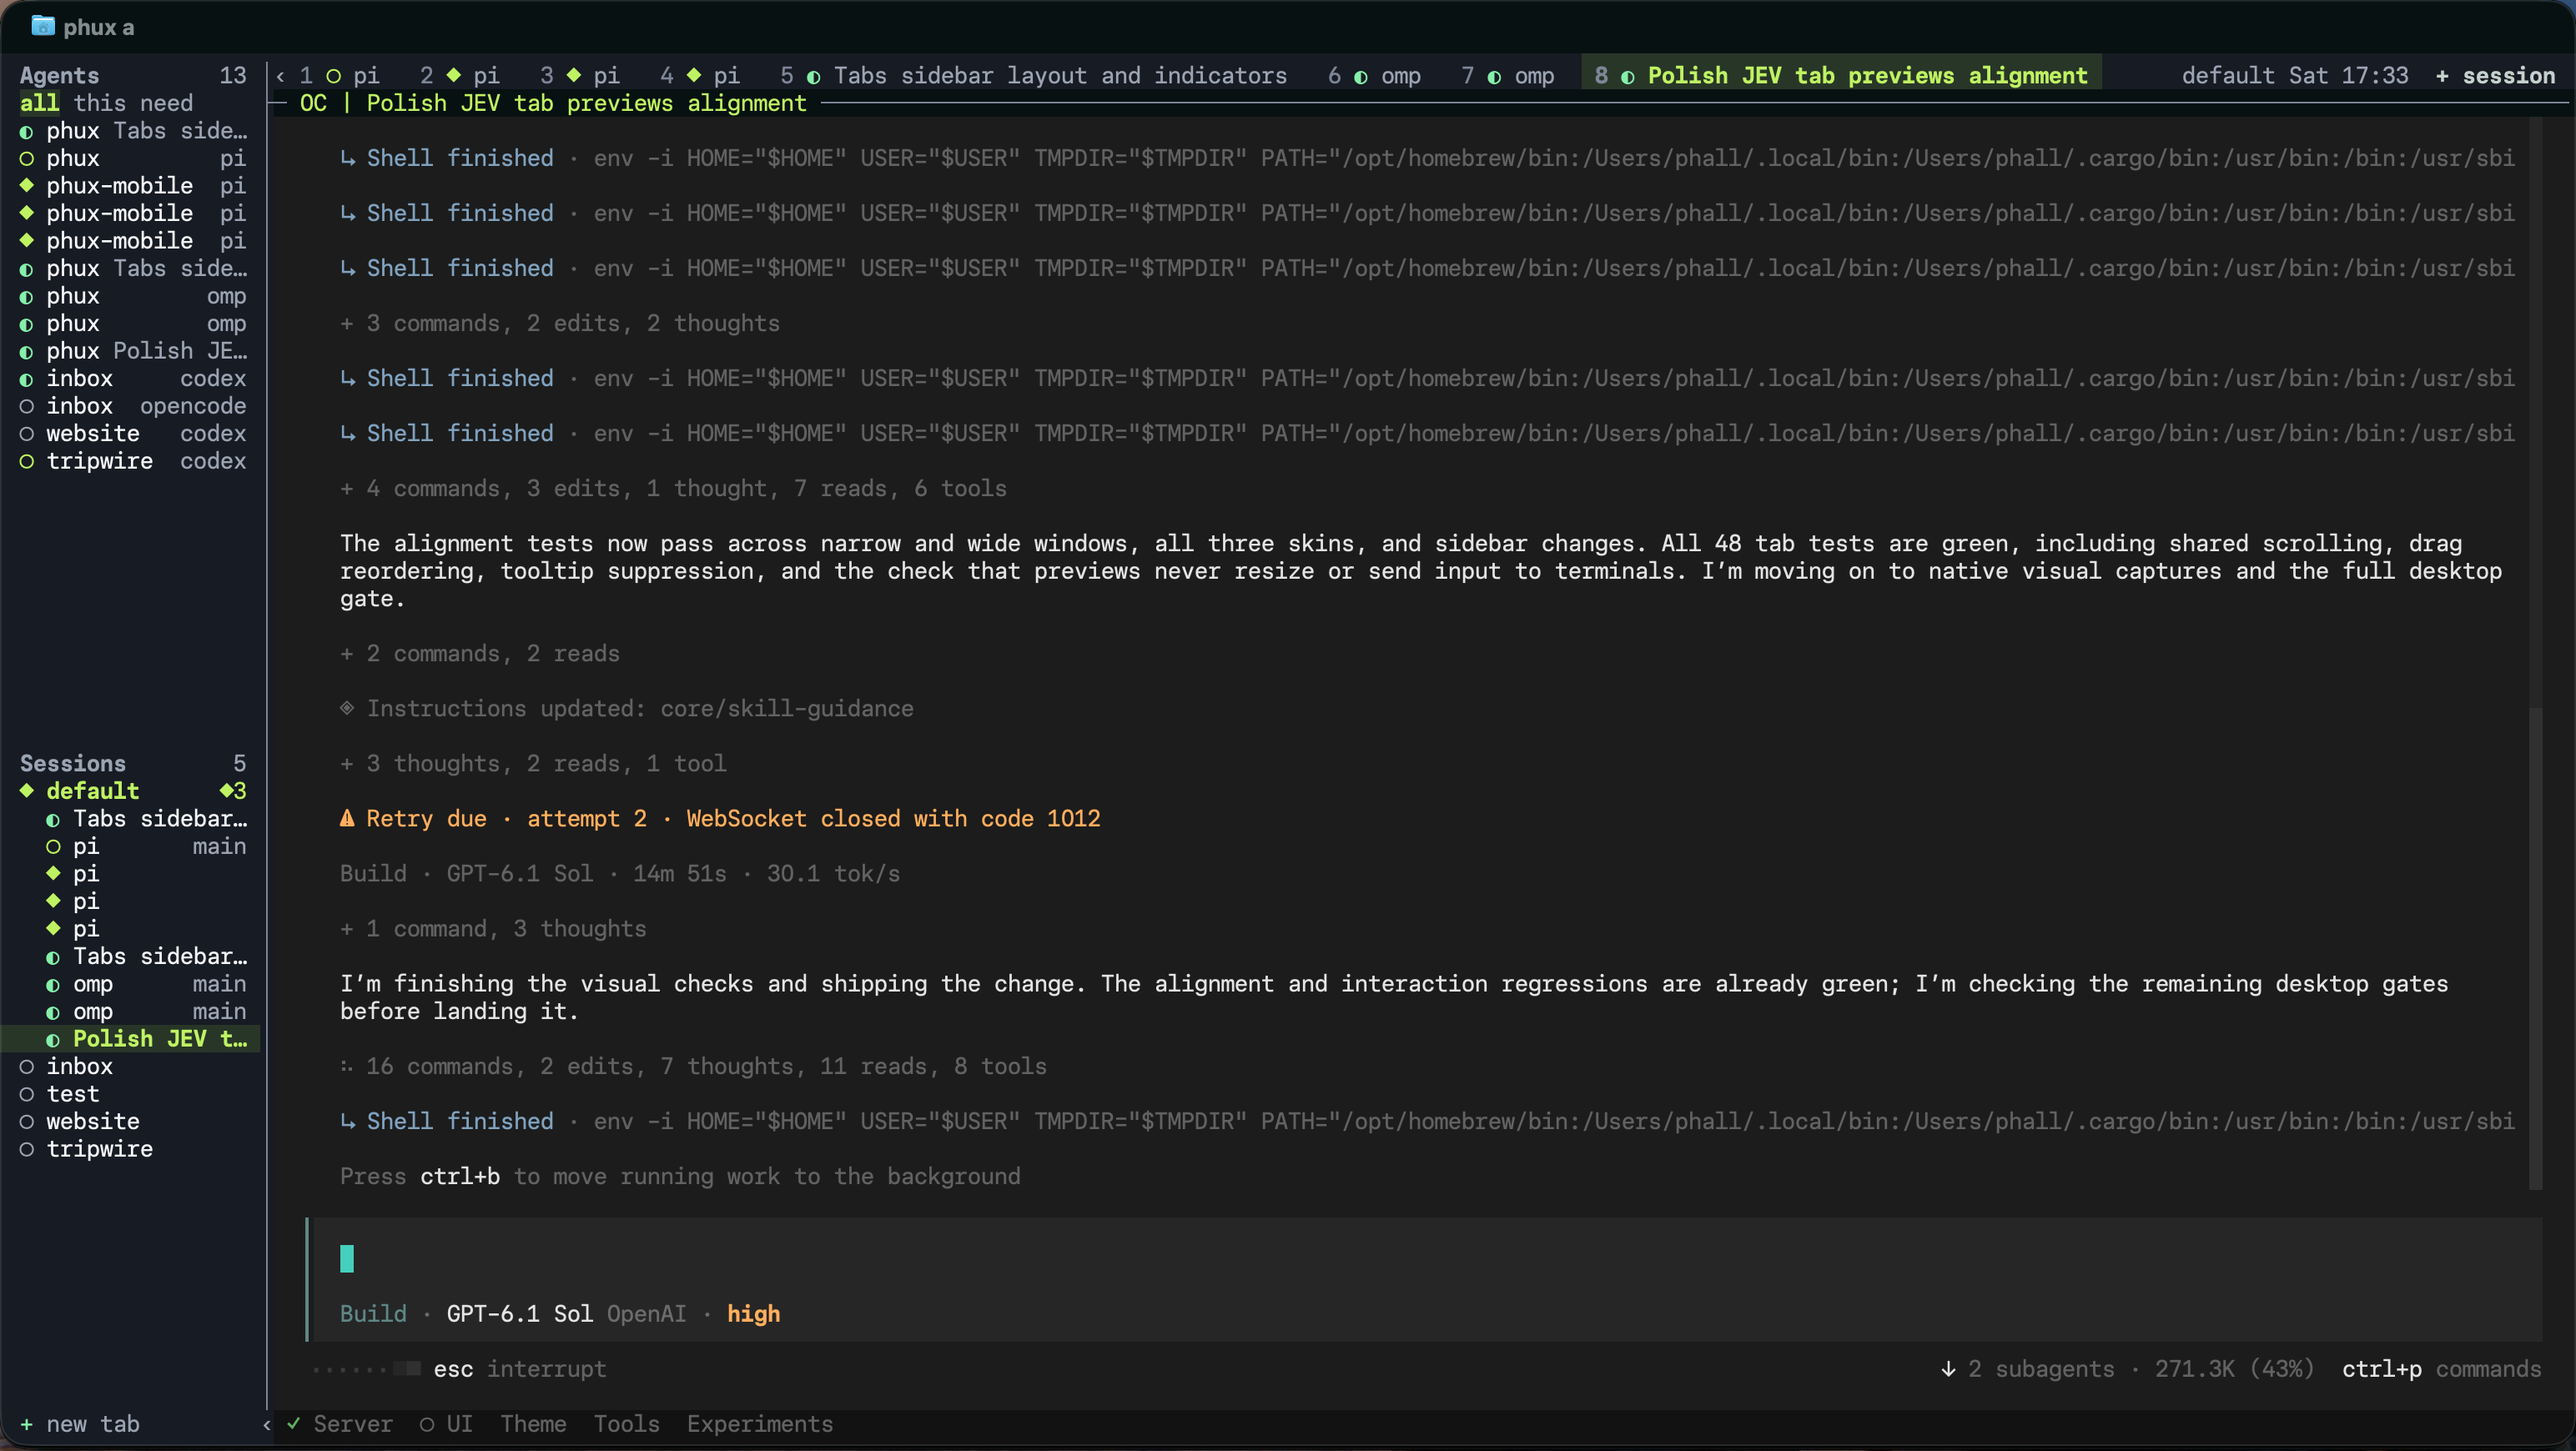
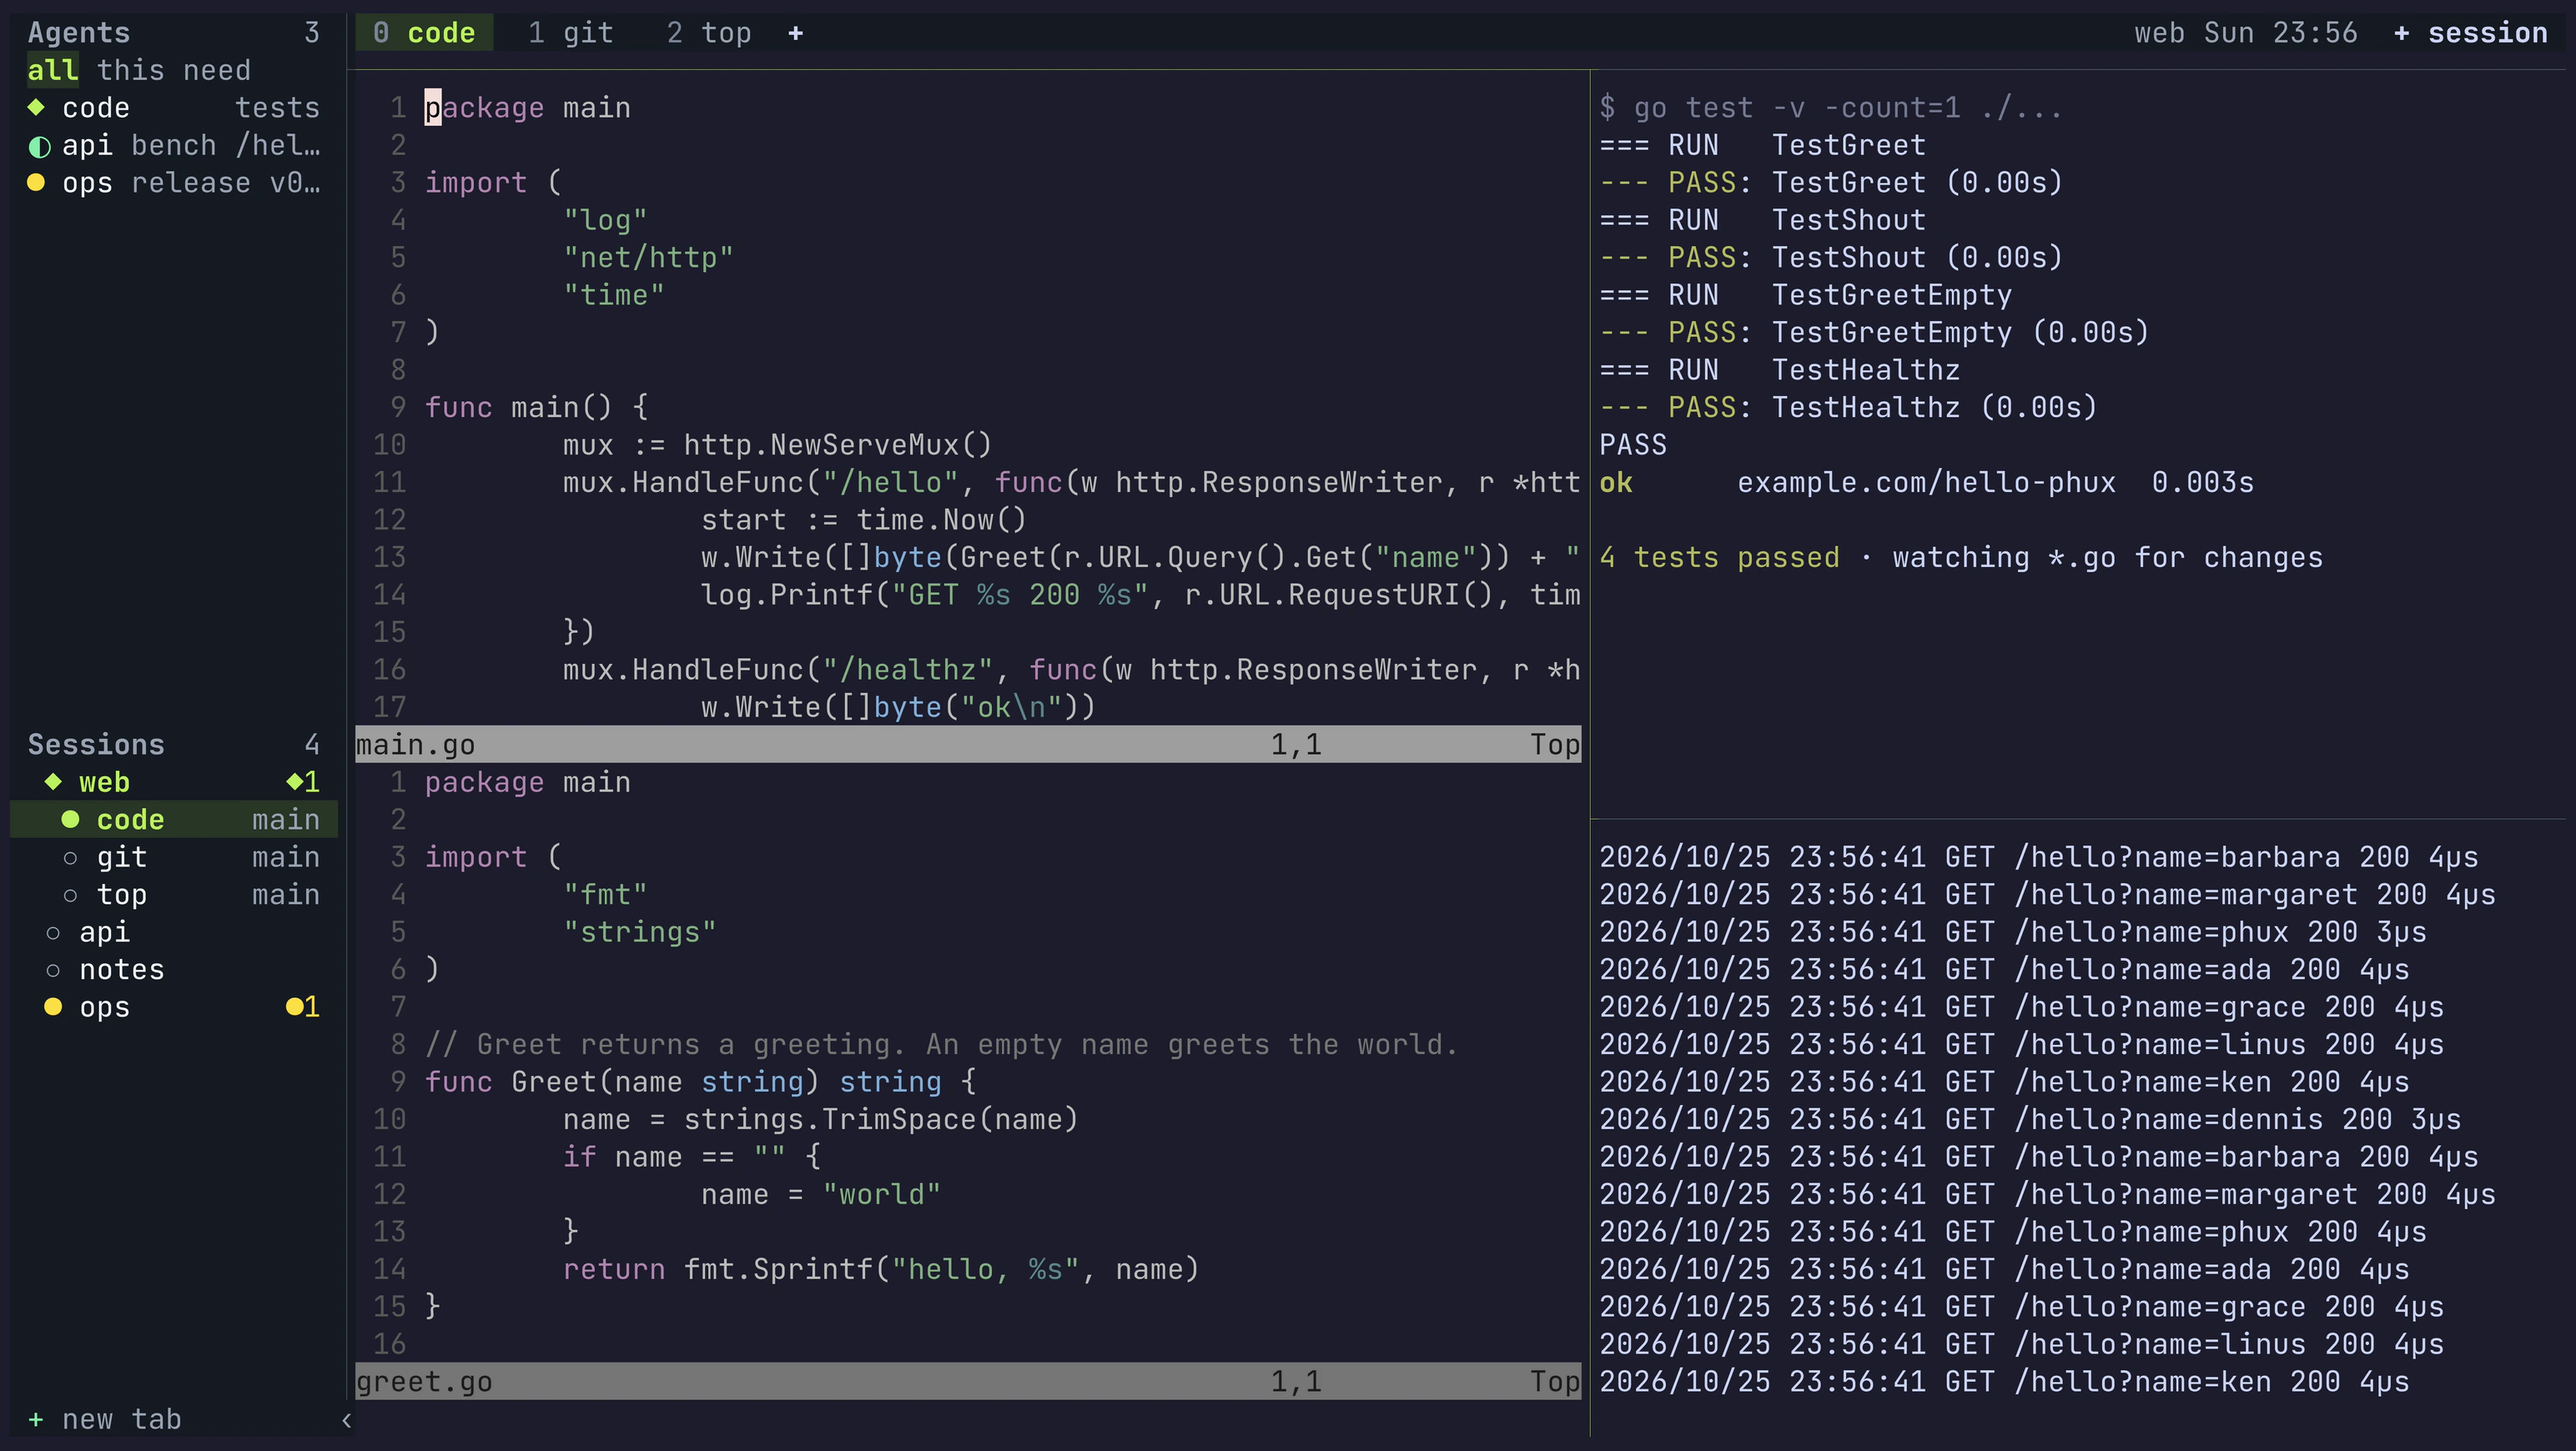
fix(site): privacy-safe shots, an X follow link, and the Windows limit (#46)
* fix(site): replace product shots with privacy-safe captures

The homepage and OG card use demo-user screenshots. The TUI file is
re-encoded at quality 85 so it stays near the previous size. The
first-open line stays; desktop 0.47.1 notarization confirms it.

* fix(site): keep the first-open check and sharpen the TUI still

A real-Mac check is scheduled for Tue Oct 27. Re-encode the TUI
capture with cwebp -q 92 -sharp_yuv -m 6.

* fix(site): add the X follow link and the Windows desktop limit

Follow @phall249 on X sits in the site footer and on /demos. Docs that
offered a Windows desktop download now say the CLI and TUI run under
WSL 2 and that the native desktop build is not published yet.

* fix(site): shorten the X link and use the tagline in the footer

The footer label is @phall249 on X. On /demos that link follows the
demo list. The full footer brand line uses SITE.tagline.

---------

Changed region(s): [[0.0, 0.0, 1.0, 1.0], [0.5596, 0.7448, 0.5907, 0.7759], [0.4352, 0.869, 0.4663, 0.9]]

diff --git a/scripts/docs-markdown.ts b/scripts/docs-markdown.ts
@@ -59,6 +59,43 @@ function presentBody(body: string): string {
   return stripSourceLead(body);
 }
 
+const WINDOWS_TRUTH =
+  "On Windows today, the CLI and TUI run under WSL 2. The native desktop build is not published yet.";
+
+/**
+ * Some product docs offer a Windows desktop download. The native client
+ * exists and is unpublished, so the site states that limit instead.
+ */
+function correctUnpublishedWindowsDesktop(body: string, repoPath: string): string {
+  if (repoPath === "docs/install.md") {
+    return body
+      .replace(
+        "Windows uses these Linux CLI/server builds through [WSL](#windows-wsl),\nincluding from PowerShell. The [Windows desktop](../clients/desktop/README.md#windows)\nis native, with its coordinator in WSL. There is no native Windows coordinator\nor Intel Mac build.",
+        `${WINDOWS_TRUTH} See [Windows (WSL)](#windows-wsl). There is no Intel Mac build.`,
+      )
+      .replace(
+        "The terminal UI runs in WSL; the native Windows desktop\nconnects to the same coordinator.",
+        "The terminal UI runs in WSL.",
+      )
+      .replace(
+        " Neither step removes your distribution. For a native window,\nsee [Windows Desktop](../clients/desktop/README.md#windows); WSLg is not required.",
+        " Neither step removes your distribution.",
+      );
+  }
+  if (repoPath === "docs/clients.md") {
+    return body
+      .replace(
+        "Phux Desktop is a native app for macOS 26 or later on Apple silicon,\nLinux on x86_64 or arm64 with Vulkan, and Windows x64 with a WSL 2 server.",
+        `Phux Desktop is a native app for macOS 26 or later on Apple silicon and Linux on x86_64 or arm64 with Vulkan. ${WINDOWS_TRUTH}`,
+      )
+      .replace(
+        "\nThe [Windows app](../clients/desktop/README.md#windows) uses native Direct3D\nrendering, input and clipboard; shells and agents stay in WSL. Its desktop\nupdates use the Windows installer. WSLg is not required. The local Changes\npanel and external Unix developer socket are not available on Windows.\n",
+        "\n",
+      );
+  }
+  return body;
+}
+
 export function yamlString(s: string): string {
   // Always quote; escape backslashes and double-quotes for YAML double-quoted.
   return `"${s.replace(/\\/g, "\\\\").replace(/"/g, '\\"')}"`;
@@ -173,6 +210,7 @@ export function createPageRenderer(entries: Entry[], revision: string, versions:
   const rewriteLinks = createLinkRewriter(entries, revision);
   return function renderSourcePage(raw: string, entry: Entry): string {
     const { body, title, summary, stability } = pageMetadata(raw, entry);
+    const published = correctUnpublishedWindowsDesktop(body, entry.repoPath);
     const fm = [
       "---",
       `title: ${yamlString(title)}`,
@@ -188,6 +226,6 @@ export function createPageRenderer(entries: Entry[], revision: string, versions:
       "---",
       "",
     ].join("\n");
-    return fm + rewriteLinks(presentBody(body), entry.repoPath);
+    return fm + rewriteLinks(presentBody(published), entry.repoPath);
   };
 }

diff --git a/scripts/docs-sync.test.ts b/scripts/docs-sync.test.ts
@@ -234,6 +234,22 @@ describe("source Markdown rendering interface", () => {
     expect(text.split("---\n").at(-1)).toBe(`## Commands\n\n${code}`);
   });
 
+  test("replaces a published native Windows desktop with the WSL limit", () => {
+    const truth = "On Windows today, the CLI and TUI run under WSL 2. The native desktop build is not published yet.";
+    const clients = render(`# Clients\n\nThe terminal UI.\n\n## Desktop\n\nPhux Desktop is a native app for macOS 26 or later on Apple silicon,\nLinux on x86_64 or arm64 with Vulkan, and Windows x64 with a WSL 2 server.\nOn macOS and Linux, install it with:\n\nThe [Windows app](../clients/desktop/README.md#windows) uses native Direct3D\nrendering, input and clipboard; shells and agents stay in WSL. Its desktop\nupdates use the Windows installer. WSLg is not required. The local Changes\npanel and external Unix developer socket are not available on Windows.\n\nIt shows every session.\n`);
+    expect(clients).toContain(truth);
+    expect(clients).not.toContain("Windows app");
+    expect(clients).not.toContain("Windows x64");
+    const install = { ...entry, repoPath: "docs/install.md", slug: "installation" };
+    const installation = createPageRenderer([install], revision, versions)(`# Install\n\nOne command.\n\nWindows uses these Linux CLI/server builds through [WSL](#windows-wsl),\nincluding from PowerShell. The [Windows desktop](../clients/desktop/README.md#windows)\nis native, with its coordinator in WSL. There is no native Windows coordinator\nor Intel Mac build.\n\nThe terminal UI runs in WSL; the native Windows desktop\nconnects to the same coordinator.\n\ninside WSL. Neither step removes your distribution. For a native window,\nsee [Windows Desktop](../clients/desktop/README.md#windows); WSLg is not required.\n`, install);
+    expect(installation).toContain(truth);
+    expect(installation).toContain("There is no Intel Mac build.");
+    expect(installation).not.toContain("does not exist");
+    expect(installation).toContain("The terminal UI runs in WSL.");
+    expect(installation).not.toContain("connects to the same coordinator");
+    expect(installation).not.toContain("Windows Desktop");
+  });
+
   test("honors metadata overrides, YAML escaping and safe stability defaults", () => {
     const override = { ...entry, title: 'A "quoted" \\ title', summary: "Owned summary." };
     const renderer = createPageRenderer([override], revision, versions);

diff --git a/src/lib/site.ts b/src/lib/site.ts
@@ -18,7 +18,7 @@ export const SITE = {
   designMode: "terminal",
   // Names the /og.png artwork. Link previews cache by URL, so change this
   // whenever src/pages/og.png.ts draws a different picture.
-  previewArtwork: "sculptural-workspace",
+  previewArtwork: "demo-workspace",
   // Set when the WS demo backend is deployed. When empty the terminal island
   // renders the static poster + a "coming online" state instead of dialing out.
   demoWsUrl: import.meta.env.PUBLIC_PHUX_DEMO_WS ?? "",

diff --git a/public/product/README.md b/public/product/README.md
@@ -1,15 +1,11 @@
 # Workspace captures
 
-Real TUI and Desktop screenshots supplied by the user on October 24, 2026:
+Privacy-safe TUI and Desktop screenshots. Both show the `default` workspace
+for the `demo` user, with neutral session names and paths under
+`/Users/demo/dev/phux`.
 
-- `desktop-workspace.webp`: `Screenshot 2026-10-24 at 5.33.46 PM.png`.
-- `tui-workspace.webp`: `Screenshot 2026-10-24 at 5.33.40 PM.png`.
+- `desktop-workspace.webp`: lossless WebP, 3088 × 1740.
+- `tui-workspace.webp`: lossy WebP (`cwebp -q 92 -sharp_yuv -m 6`), 3088 × 1740, 370 KB. The lossless source is 858 KB; -sharp_yuv keeps coloured glyph edges clean.
 
-Both source images are 3840 × 2160. Each uses the same crop: x=324, y=116,
-width=3088, height=1740. This removes the macOS desktop and menu bar while
-preserving the complete app window. The crops are encoded as lossless WebP,
-without resizing or changing the product UI.
-
-They show the same `default` workspace with different active agent tabs.
 The homepage overlays them at identical dimensions for its drag reveal.
 Do not substitute an Agent Fleet overview, invented UI, or unrelated session.
